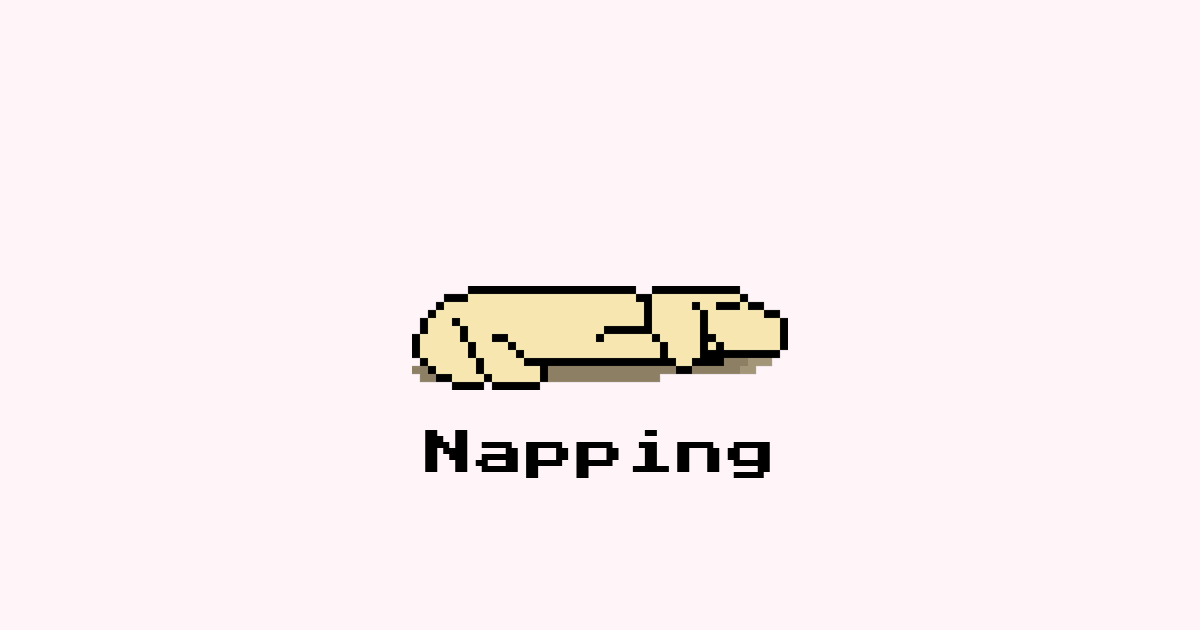
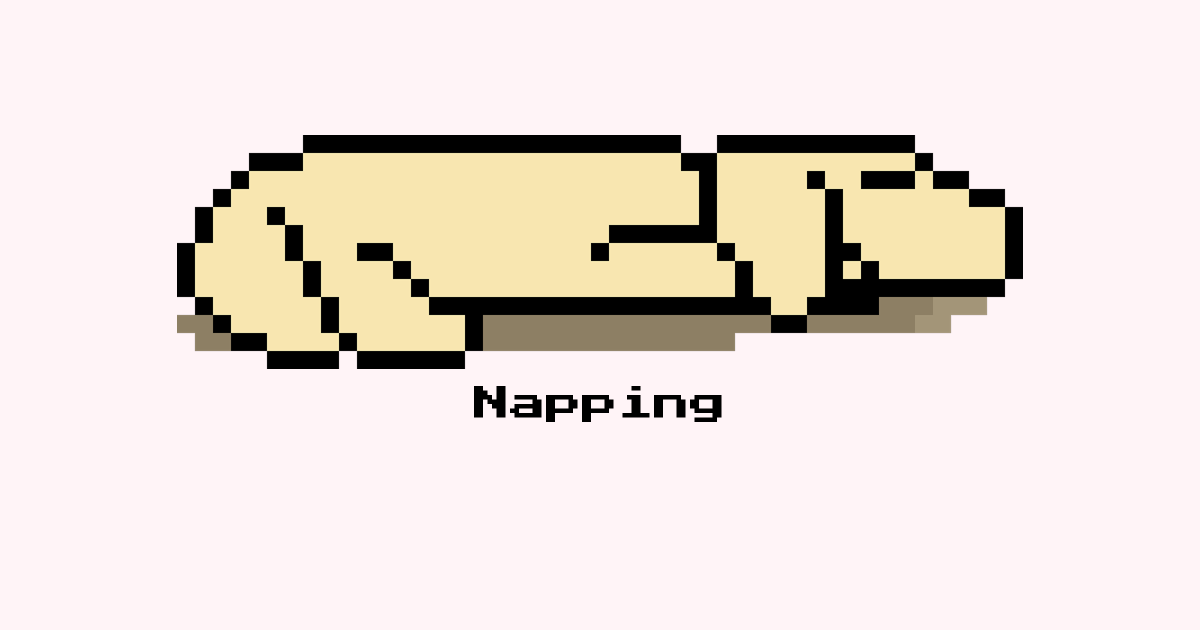
og images

Changed region(s): [[0.1233, 0.2111, 0.8633, 0.7841]]

diff --git a/lib/db.js b/lib/db.js
@@ -164,7 +164,7 @@ if (!global.db) {
     {
       id: 18,
       sort_order: 13,
-      name: "The word walk",
+      name: "The word 'walk'",
       image: "/images/thewordwalk.gif",
       thoughts: {
         normal: ["did i hear it?", "i heard it", "legs ready"],
